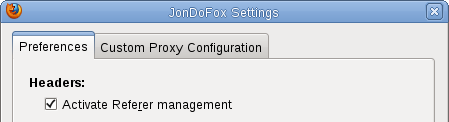
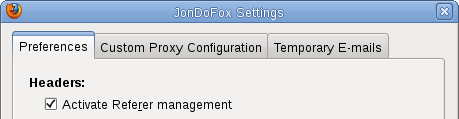
added english documentation of temp email feature

diff --git a/FirefoxByLanguage/enFirefoxPortablePatch/help.html b/FirefoxByLanguage/enFirefoxPortablePatch/help.html
@@ -250,6 +250,19 @@ whether there could be something wrong with an updated certificate, thus
 supporting the user to avoid information leaks due to faked certificates and 
 <a href="http://en.wikipedia.org/wiki/Man-in-the-middle_attack">man-in-the-middle attacks</a>.</p>
 
+<h4><a name="Temporary E-mail addresses" id="Temporary E-mail addresses">Getting temporary E-Mail addresses</a></h4>
+<p>With JonDoFox you have the opportunity to get temporary E-mail addresses conveniently. In order to do so right-click on a text field in which you want to get the E-mail address and choose the following entry out of the menu popping up:</p> 
+
+<div align="center">
+<img alt="Temporary E-mail addresses -- context menu" src="img_jondofox/temp_emails_context_en.png" vspace="8" hspace="0">
+</div>
+
+<p>Thereafter, the requested E-mail address will get inserted into the text field and your account gets opened in a new tab. If you want to decide by yourself which provider of temporary E-mail addresses you want to use then you may do this in the JonDoFox settings menu in the Temporary E-mails tab:</p>
+
+<div align="center">
+<img alt="Temporary E-mail addresses -- settings" src="img_jondofox/temp_emails_en.png" vspace="8" hspace="0">
+</div>
+
 <h4><a name="Searchbar Privacy" id="Searchbar Privacy">Protecting search queries at your workplace</a></h4>
 <p>In order to mitigate the risk that an outsider might get to know the queries entered into the browser's searchbar, JonDoFox erases them just after they were submitted. Furthermore, the search history gets deleted every thirty minutes. By this means it can on the one hand not happen anymore that the last search query is visible to everyone having access to the user's browser session. On the other hand JonDoFox minimizes the possibility that entries in the search history may compromise the user without loosing the search history feature completely.</p>
 
@@ -390,8 +403,8 @@ src="img_jondofox/UnPlug_en.png" vspace="10"></div>
 
 <p>For Windows, there also exists an excellent freeware
 program called <a href="http://atube-catcher.dsnetwb.com">aTube Catcher</a>.
-It is a special program for video download. <a href="https://anonymous-proxy-servers.net/wiki/index.php/Compatible_applications#Download_videos_with_aTube_Catcher">Configuration
-for anonymous use</a> you can find in our wiki.</p>
+It is a special program for video download. The <a href="https://anonymous-proxy-servers.net/wiki/index.php/Compatible_applications#Download_videos_with_aTube_Catcher">configuration
+for anonymous use</a> can be found in our wiki.</p>
   
 <h3><a name="filterAds" id="filterAds">Filter advertisements with
 Adblock Plus</a></h3>
